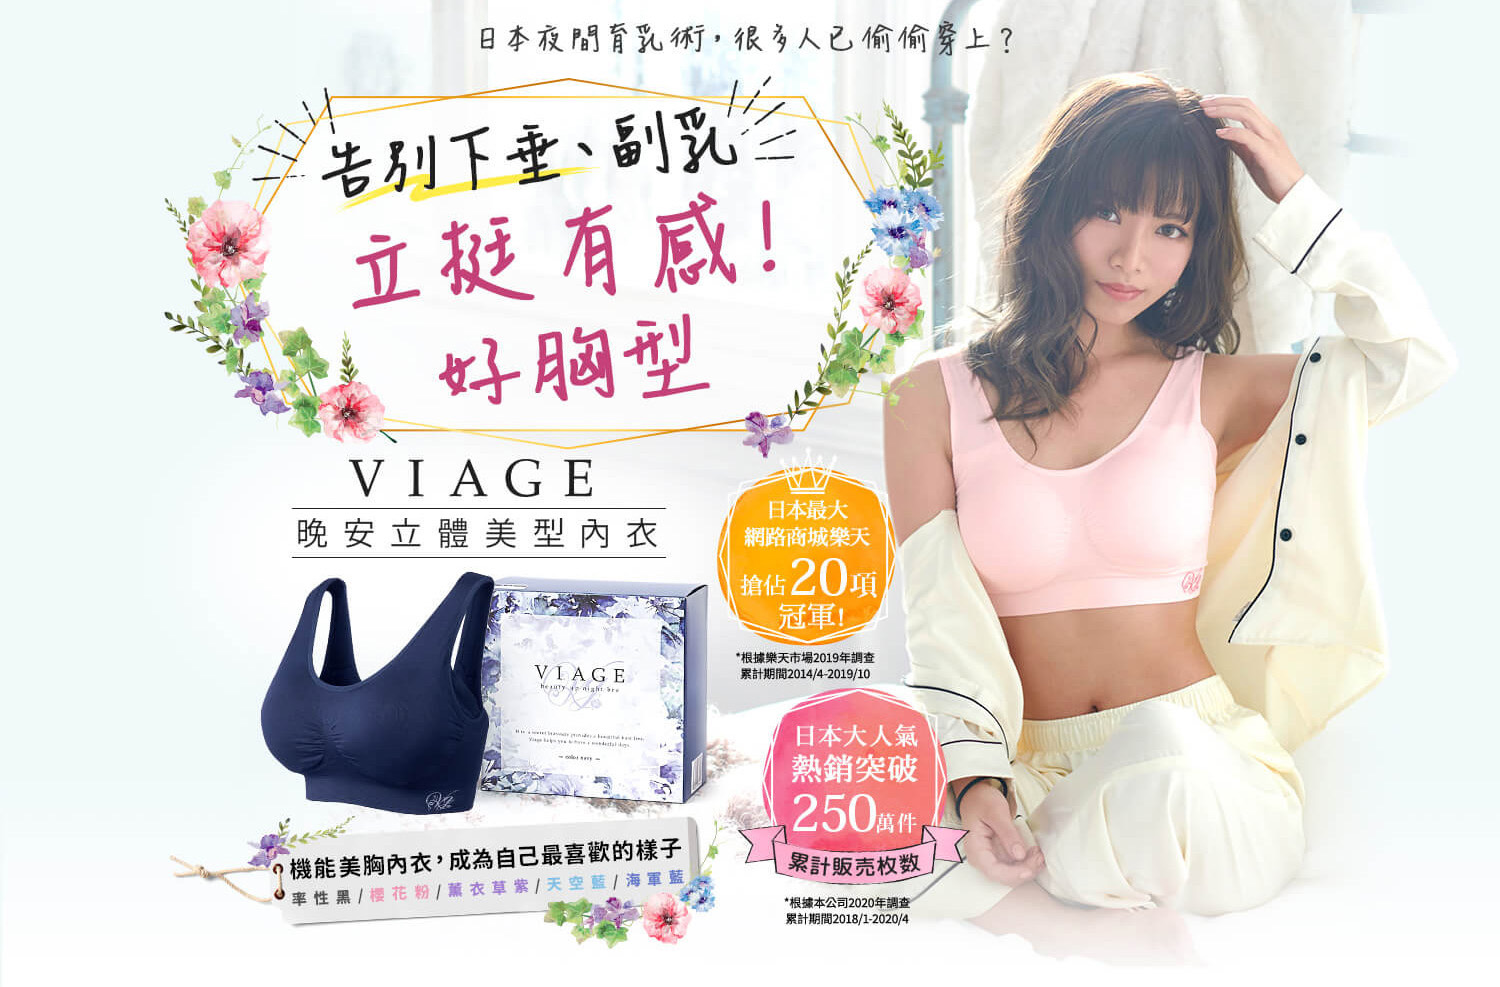
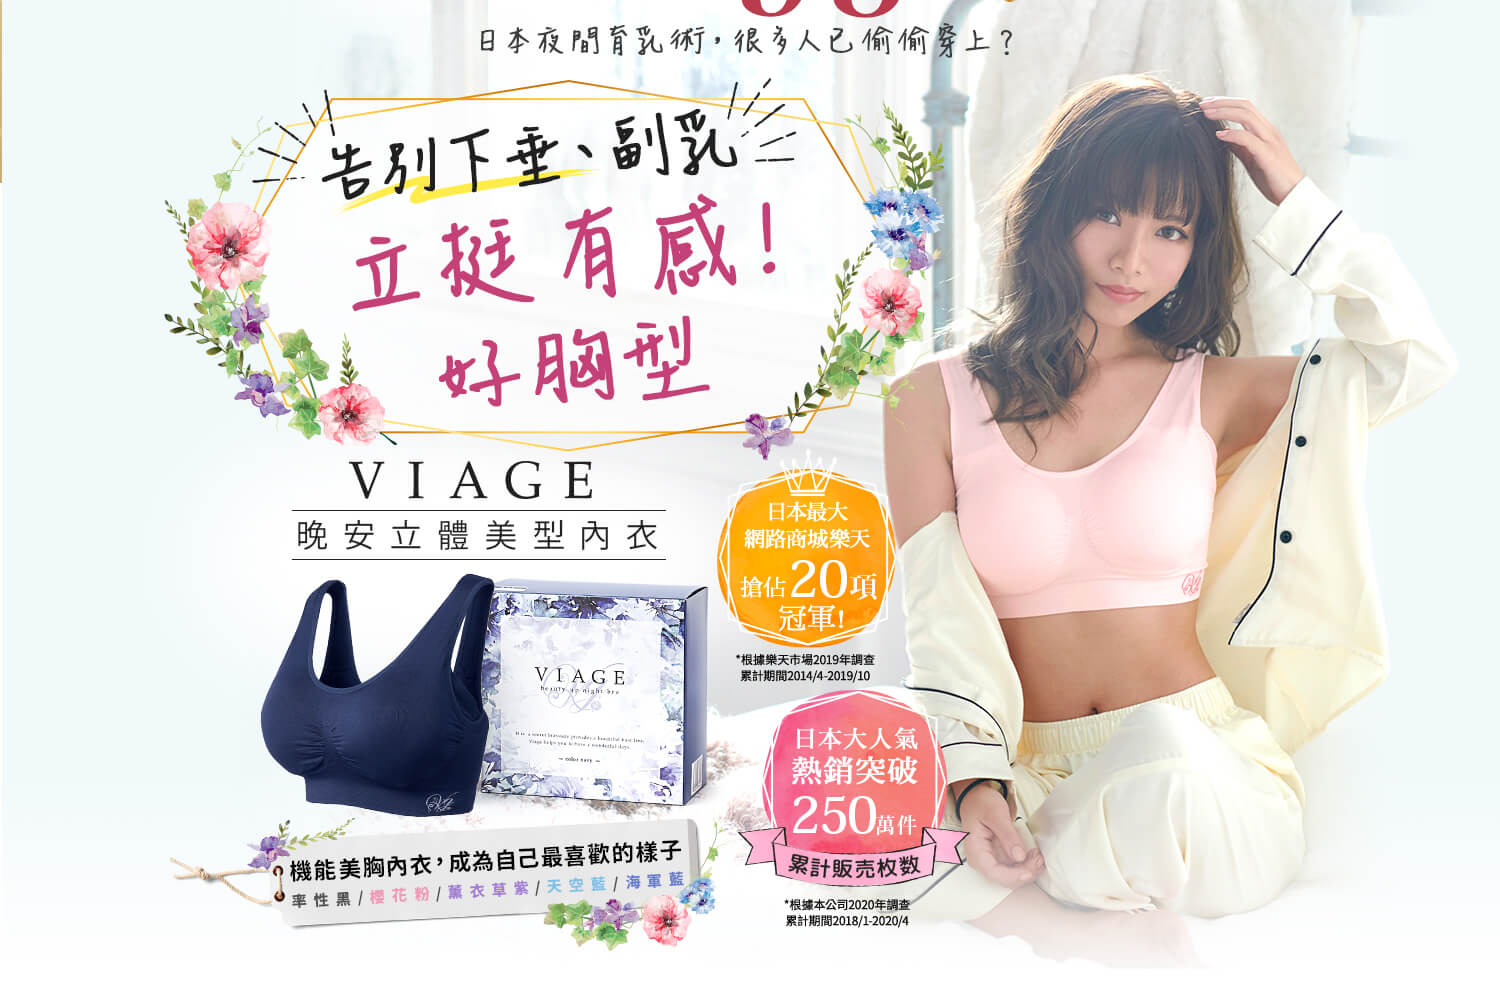
20200911_banner update

diff --git a/index.html b/index.html
@@ -333,11 +333,13 @@
                 <!-- 01_main -->
                 <section id="01_main">
                     <div class="PC">
+                        <img src="images/01_banner.jpg" width=100% alt="">
                         <img src="images/01_main.jpg" width=100% alt="">
                         <img src="images/01_anniversary_1.jpg" width=100% alt="">
                         <img src="images/01_anniversary_2.jpg" width=100% alt="">
                     </div>
                     <div class="mobile">
+                        <img src="images/SMP/01_banner_SMP.jpg" width=100% alt="">
                         <img src="images/SMP/01_main_SMP.jpg" width=100% alt="">
                         <img src="images/SMP/01_anniversary_1_SMP.jpg" width=100% alt="">
                         <img src="images/SMP/01_anniversary_2_SMP.jpg" width=100% class="anniversary_2" alt="">
